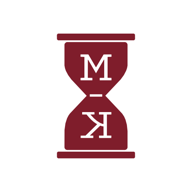
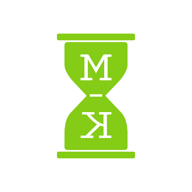
limemark 2026-08-18: 파비콘 연두 + 32px PNG

Changed region(s): [[0.2812, 0.1562, 0.7188, 0.8438]]

diff --git a/index.html b/index.html
@@ -7,13 +7,14 @@
 <meta name="theme-color" content="#162e23">
 <title>MAKERS TASKS</title>
 <!-- build: projfilter 2026-07-04 / redeploy 2026-07-05 / rename-r2 / doneat-endfix / rm-databtns-r2 / donedate-edit 2026-07-21 / pwa 2026-08-12 / resync 2026-08-12 / sw 2026-08-14 / enddate-autodone 2026-08-14 / brandmark 2026-08-17 / ownerfilter 2026-08-17 / fluidside 2026-08-17 (Pages 재빌드 트리거용) -->
-<meta name="app-version" content="redmark-20260818">
+<meta name="app-version" content="limemark-20260818">
 
 <!-- PWA: 아이폰 '홈 화면에 추가' 시 앱처럼 전체화면 실행 -->
 <link rel="manifest" href="manifest.webmanifest">
 <link rel="apple-touch-icon" href="icon-180.png">
-<!-- 탭 파비콘: MARC와 같은 마크(투명 SVG, 다크모드 대응) · 색만 딥레드 -->
-<link rel="icon" type="image/svg+xml" href="favicon.svg?v=red1">
+<!-- 탭 파비콘: MARC와 같은 마크(SVG + 32px PNG, MARC와 동일 구성) · 색만 연두 -->
+<link rel="icon" type="image/svg+xml" href="favicon.svg?v=lime1">
+<link rel="icon" type="image/png" sizes="32x32" href="favicon-32.png?v=lime1">
 <link rel="icon" type="image/png" sizes="192x192" href="icon-192.png">
 <meta name="apple-mobile-web-app-capable" content="yes">
 <meta name="mobile-web-app-capable" content="yes">
